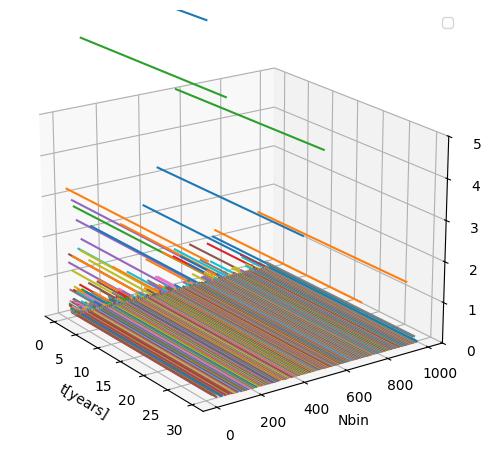
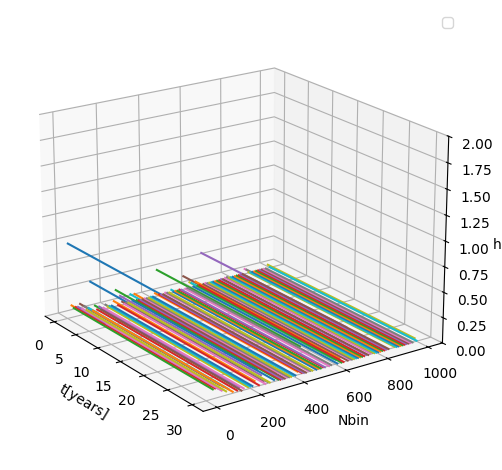
cutting down overcrowding

diff --git a/noise_csv.py b/noise_csv.py
@@ -9,15 +9,15 @@ Nbinmin = 10
 Nbinmax = 1000
 Nchunks = 15 # Number of chunks
 ###
-def plotting(show=False, outputfile='Figure.png', total_time=1e4, dt=5e-3, Nbinmin = 10, Nbinmax = 1000, ylimlow=0, ylimhigh=0.5e38):
+def plotting(show=False, outputfile='Figure.png', total_time=1e4, dt=5e-3, Nbinmin = 10, Nbinmax = 1000, ylimlow=0, ylimhigh=0.5e38, step = 1):
     time = [i * dt for i in range(int(total_time/dt))]
-    Nbin = [i for i in range(Nbinmax + 1)]
+    Nbin = [step * i for i in range(Nbinmax)]
 
     fig = plt.figure()
     ax = fig.add_subplot(projection='3d')
 
     for i in Nbin:
-        if i >= Nbinmin:
+        if i >= Nbinmin and i <= Nbinmax:
             df = pd.read_csv(f'outputs/output_{i}.csv', header=None)
             df.columns = ['hpz']
             data1 = df['hpz']
